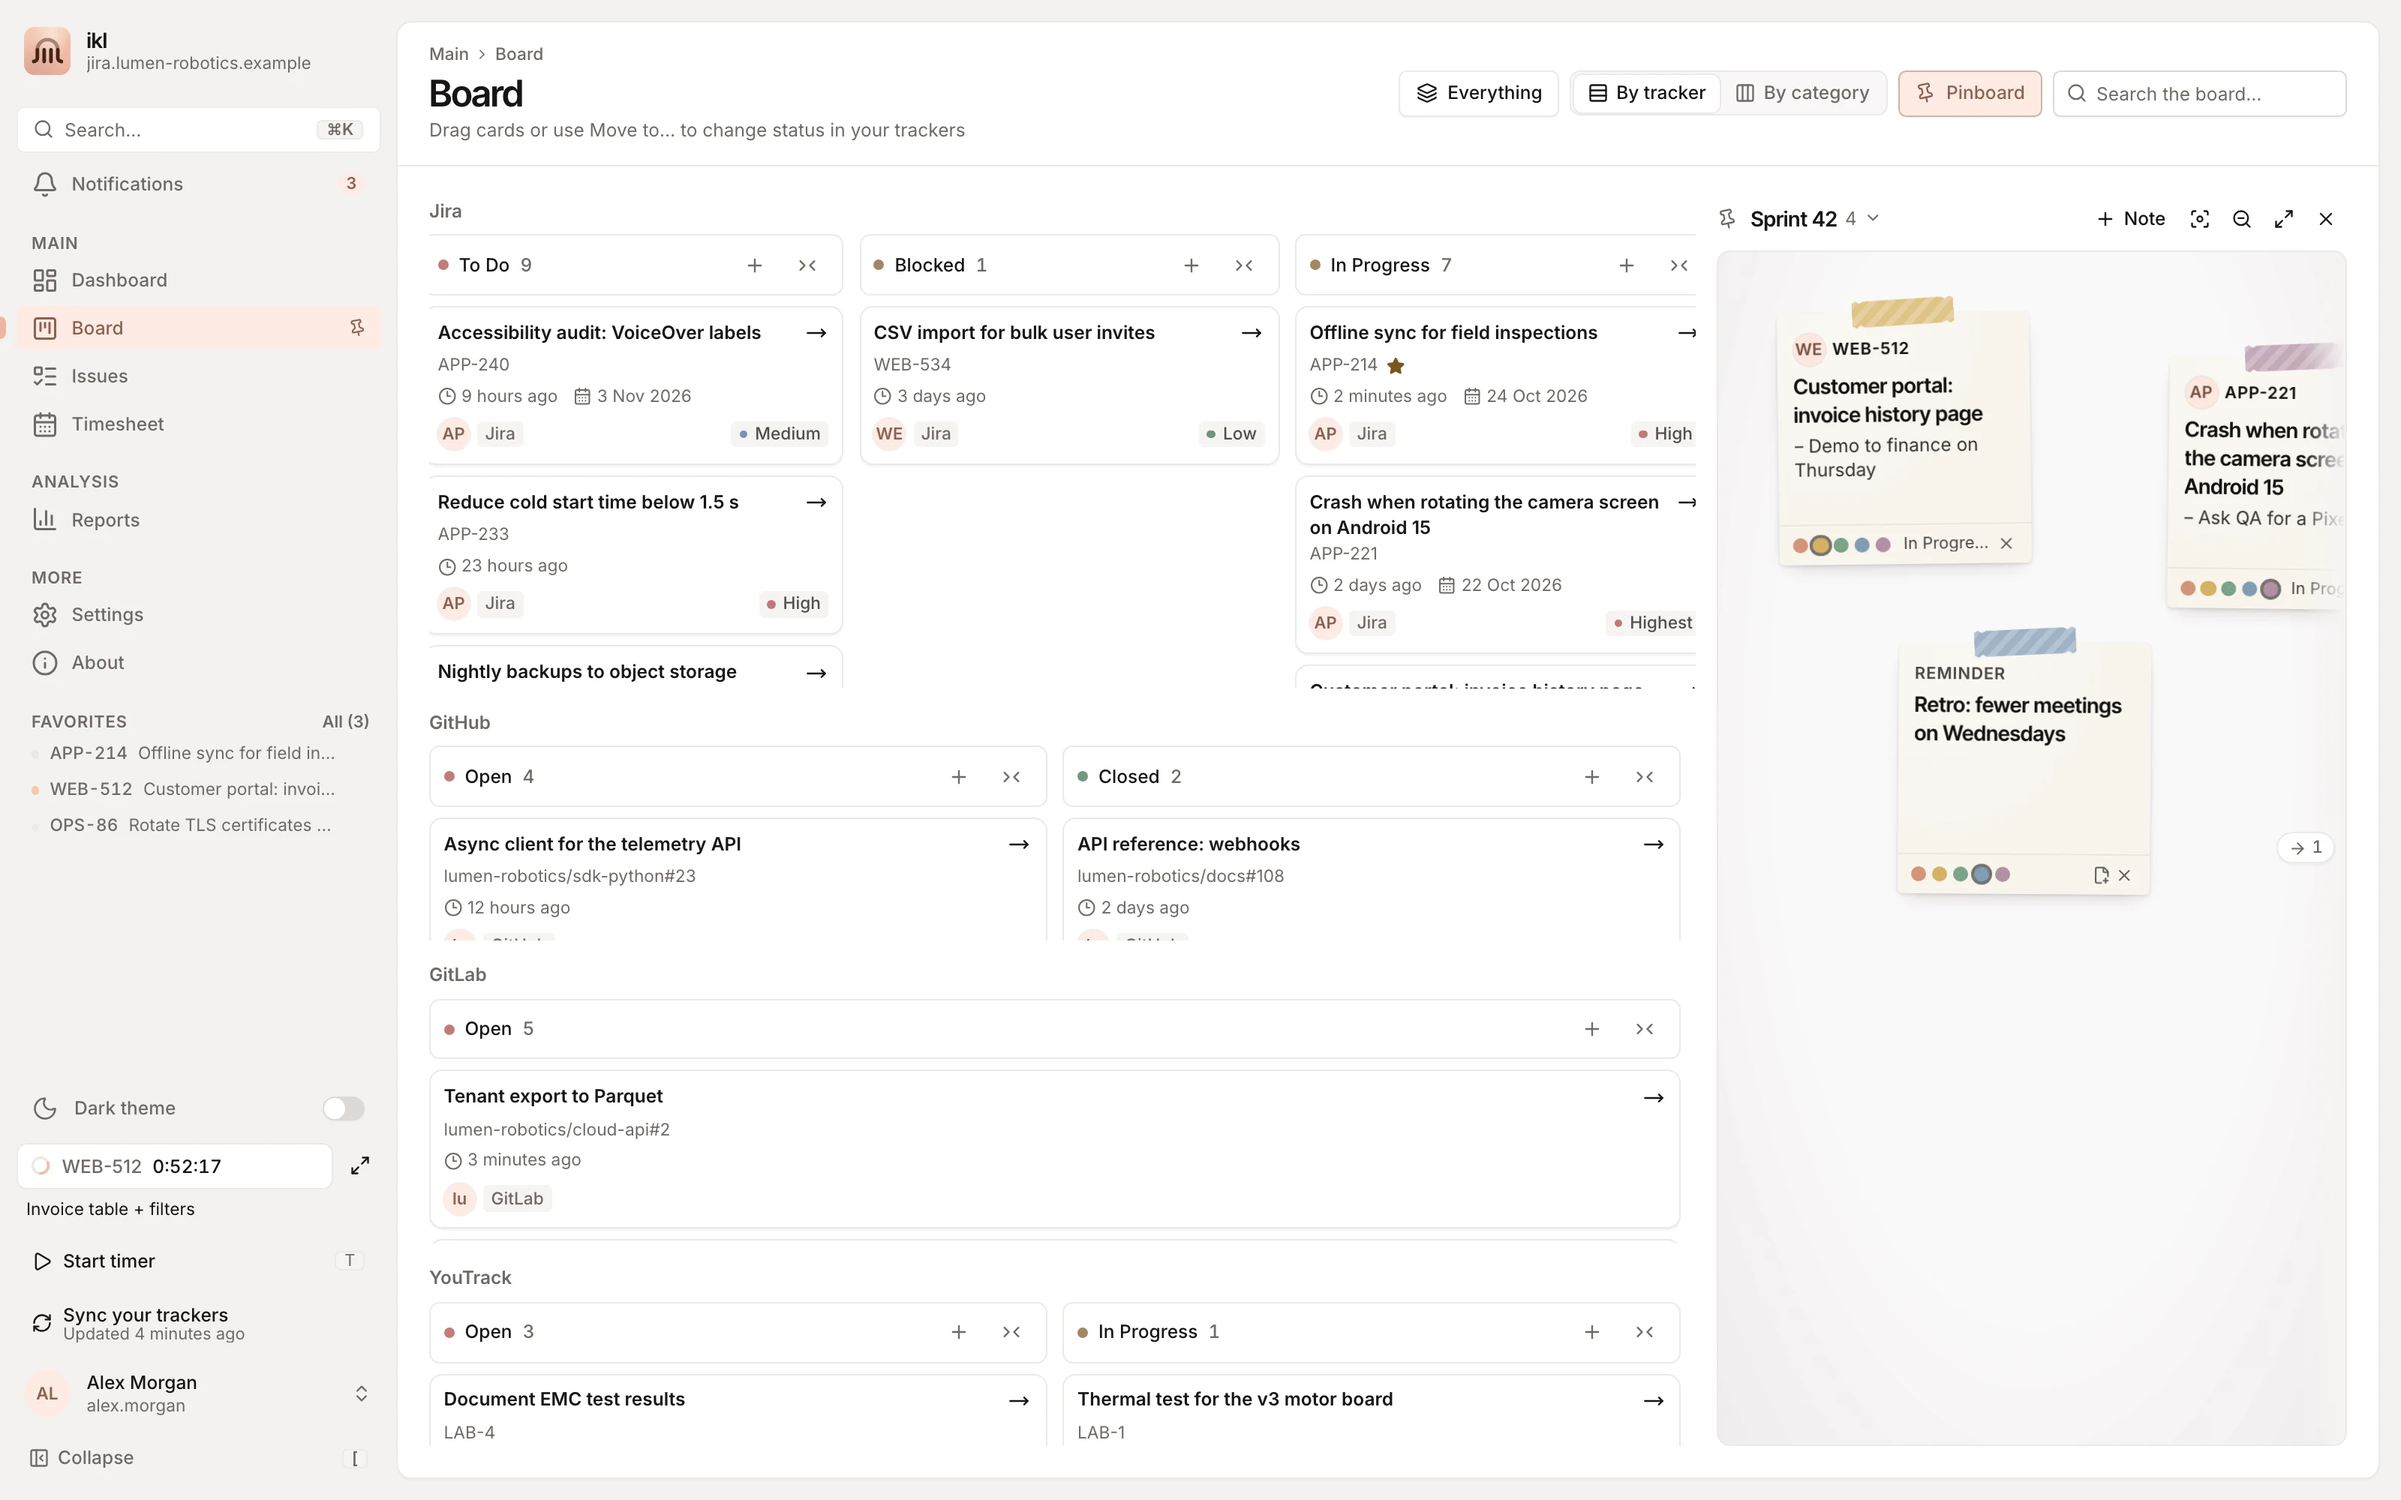
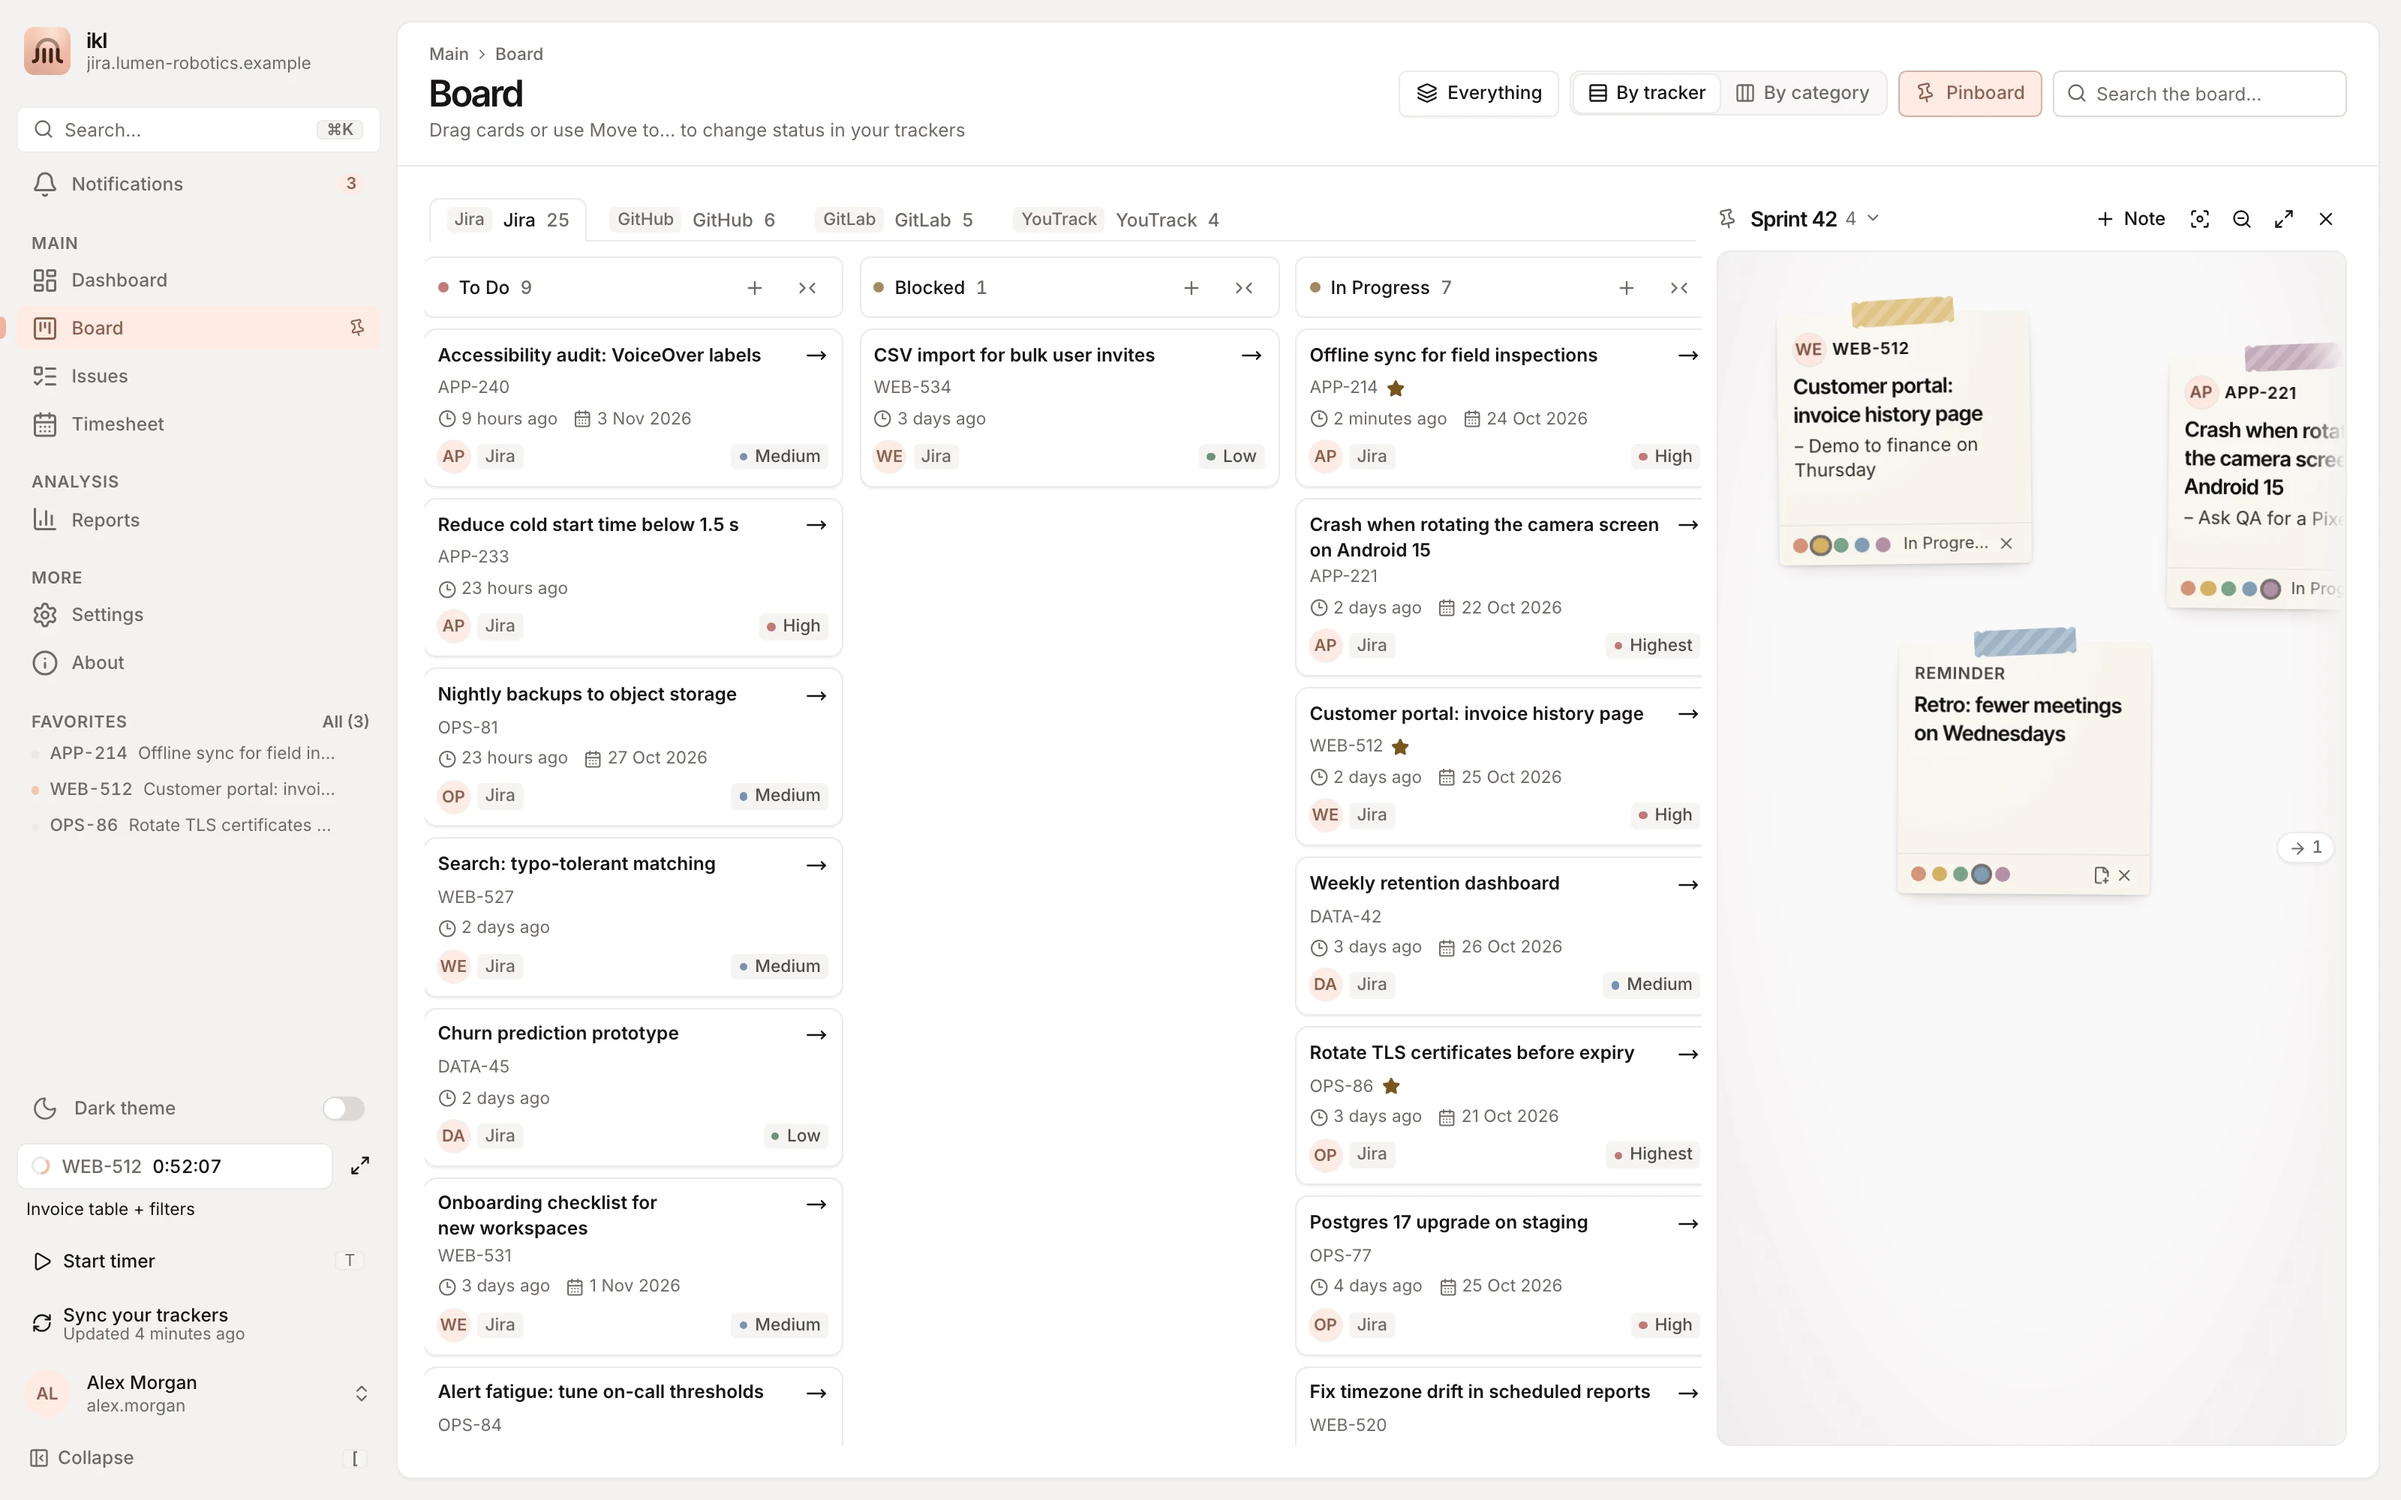
feat(board): tracker tabs, recent finished cards

diff --git a/src/pages/Board.tsx b/src/pages/Board.tsx
@@ -17,6 +17,8 @@ import { trpc } from "@/lib/trpc";
 import { byRelevance, visibleIssues, issueId } from "@/lib/issues";
 import { statusCategoryDotTone } from "@/lib/jira";
 import { cn } from "@/lib/utils";
+import { ConnectionBadge } from "@/components/app/ConnectionBadge";
+import { recentFinished } from "@/lib/boardDone";
 import { PageHeader } from "@/components/app/PageHeader";
 import { PanelSection } from "@/components/app/Panel";
 import { Input } from "@/components/ui/input";
@@ -143,7 +145,8 @@ export default function Board() {
   const showAllDone = view.expanded;
   const setShowAllDone = (f: (s: Set<string>) => Set<string>) => setView({ expanded: f(showAllDone) });
 
-  const { collapsed, toggle: toggleCollapsed } = useCollapsedColumns();
+  // Column ids carry their connection or category (s:6:Done, k:done): kept apart as "board:".
+  const { collapsed, toggle: toggleCollapsed } = useCollapsedColumns("board");
   const panel = usePinboardPanel();
   const mobileBoard = pinboardSheet.useValue();
   const boardId = usePinboardBoardId();
@@ -272,6 +275,38 @@ export default function Board() {
   }, [mode, customColumns, sourceIds, statuses, rows, connections]);
   const allColumns = lanes.flatMap(l => l.columns);
 
+  // "Lately" for finished columns: from when the board was opened.
+  const [openedAt] = useState(() => Date.now());
+
+  // The tracker shown when there are several (its tab), remembered per bucket on this device.
+  const laneKey = `ikl-board-lane:${active?.id ?? "all"}`;
+  const [laneTab, setLaneTab] = useState<number | null>(() => {
+    try {
+      const v = Number(localStorage.getItem(laneKey));
+      return Number.isInteger(v) && v > 0 ? v : null;
+    } catch {
+      return null;
+    }
+  });
+  const pickLane = (id: number | null) => {
+    setLaneTab(id);
+    try {
+      if (id !== null) localStorage.setItem(laneKey, String(id));
+    } catch {
+      // per-device convenience only
+    }
+  };
+  /** Arrows, Home and End move between the tabs (the tab pattern). */
+  const onTabKey = (e: React.KeyboardEvent) => {
+    const ids = lanes.map(l => l.connectionId);
+    const at = Math.max(0, ids.indexOf(lanes.find(l => l.connectionId === laneTab)?.connectionId ?? ids[0]));
+    const next = e.key === "ArrowRight" ? (at + 1) % ids.length : e.key === "ArrowLeft" ? (at - 1 + ids.length) % ids.length : e.key === "Home" ? 0 : e.key === "End" ? ids.length - 1 : -1;
+    if (next < 0) return;
+    e.preventDefault();
+    pickLane(ids[next]);
+    requestAnimationFrame(() => document.getElementById(`board-tab-${ids[next]}`)?.focus());
+  };
+
   // Dragging: only the columns its own tracker can take it to accept the drop.
   const [dragging, setDragging] = useState<Dragging | null>(null);
   const waysOf = async (card: Row): Promise<Way[]> => {
@@ -324,8 +359,10 @@ export default function Board() {
     const items = cardsOf(col);
     const isDone = col.category !== "" && isClosed(col.category);
     const expanded = showAllDone.has(col.id);
-    const hidden = isDone && !expanded ? Math.max(0, items.length - DONE_LIMIT) : 0;
-    const shown = hidden ? items.slice(0, DONE_LIMIT) : items;
+    // Finished columns: the last two weeks (at most DONE_LIMIT), the older ones on request.
+    const finished = isDone && !expanded ? recentFinished(items, openedAt, DONE_LIMIT) : null;
+    const hidden = finished?.older ?? 0;
+    const shown = finished ? finished.shown : items;
     // While a card is dragged: on where it can go, off (and dimmed) elsewhere; its own column stays as is.
     const own = dragging ? columnOf({ connectionId: dragging.card.connectionId, status: dragging.card.status, category: dragging.card.category }, [col]) === col.id : false;
     const allowed = targets.has(col.id);
@@ -436,7 +473,7 @@ export default function Board() {
               {t("pages.board.showAll", { hidden })}
             </Button>
           )}
-          {isDone && expanded && items.length > DONE_LIMIT && (
+          {isDone && expanded && recentFinished(items, openedAt, DONE_LIMIT).older > 0 && (
             <Button
               variant="ghost"
               size="sm"
@@ -475,17 +512,48 @@ export default function Board() {
     body = <EmptyState art="inbox" title={t("pages.board.noIssues")} message={t("pages.board.emptyMessage", { provider })} />;
   } else {
     const several = lanes.length > 1;
+    // Several trackers: one at a time behind its tab, the whole height for its columns.
+    const laneShown = several ? (lanes.find(l => l.connectionId === laneTab) ?? lanes[0]) : null;
+    const countOf = (id: number | null) => shownRows.filter(r => r.connectionId === id).length;
     body = (
-      <div className={cn("flex min-h-0 flex-1 flex-col gap-4", several && "overflow-y-auto")}>
-        {lanes.map(lane => (
+      <div className="flex min-h-0 flex-1 flex-col gap-3">
+        {several && (
+          <div role="tablist" aria-label={t("pages.board.lanesLabel")} className="flex shrink-0 flex-wrap items-end gap-1 border-b" onKeyDown={onTabKey}>
+            {lanes.map(lane => {
+              const on = lane === laneShown;
+              return (
+                <button
+                  key={lane.connectionId ?? "all"}
+                  type="button"
+                  role="tab"
+                  id={`board-tab-${lane.connectionId}`}
+                  aria-selected={on}
+                  aria-controls="board-lane"
+                  tabIndex={on ? 0 : -1}
+                  onClick={() => pickLane(lane.connectionId)}
+                  className={cn(
+                    "-mb-px flex items-center gap-2 rounded-t-lg border border-b-0 px-3 py-1.5 text-body-sm font-medium outline-none transition-colors focus-visible:ring-2 focus-visible:ring-ring/40",
+                    on ? "bg-card text-foreground" : "border-transparent text-muted-foreground hover:bg-accent hover:text-foreground"
+                  )}
+                >
+                  {/* Its tracker beside a name of its own ("Side projects"); never "Jira Jira". */}
+                  {lane.connectionId !== null && lane.label !== connections.find(c => c.id === lane.connectionId)?.name && <ConnectionBadge connectionId={lane.connectionId} />}
+                  <span className="truncate">{lane.label}</span>
+                  <span className="tabular text-muted-foreground">{countOf(lane.connectionId)}</span>
+                </button>
+              );
+            })}
+          </div>
+        )}
+        {(laneShown ? [laneShown] : lanes).map(lane => (
           <div
             key={lane.connectionId ?? "all"}
             data-lane={lane.connectionId ?? "all"}
-            role={several ? "group" : undefined}
+            id={several ? "board-lane" : undefined}
+            role={several ? "tabpanel" : undefined}
             aria-label={several ? lane.label : undefined}
-            className={cn("flex min-h-0 flex-col", !several && "flex-1")}
+            className="flex min-h-0 flex-1 flex-col"
           >
-            {several && <h2 className="mb-2 text-body-sm font-semibold text-muted-foreground">{lane.label}</h2>}
             <div
               data-scroll-key={`board-columns-${lane.connectionId ?? "all"}`}
               className="-mx-1 flex min-h-0 flex-1 snap-x snap-mandatory gap-3 overflow-x-auto px-1 [scrollbar-gutter:stable]"

diff --git a/src/lib/boardDone.test.ts b/src/lib/boardDone.test.ts
@@ -1,0 +1,20 @@
+import { describe, expect, it } from "vitest";
+import { recentFinished } from "./boardDone";
+
+const DAY = 86_400_000;
+const now = Date.UTC(2026, 9, 21, 12);
+const card = (id: number, daysAgo: number | null) => ({ id, relevantAt: daysAgo === null ? null : now - daysAgo * DAY });
+
+describe("a finished column", () => {
+  it("shows the last two weeks, newest first; older ones wait", () => {
+    const r = recentFinished([card(1, 30), card(2, 1), card(3, 13), card(4, null), card(5, 15)], now);
+    expect(r.shown.map(c => c.id)).toEqual([2, 3]);
+    expect(r.older).toBe(3);
+  });
+
+  it("never more than the cap, even of recent ones", () => {
+    const r = recentFinished(Array.from({ length: 30 }, (_, i) => card(i, i / 10)), now, 20);
+    expect(r.shown).toHaveLength(20);
+    expect(r.older).toBe(10);
+  });
+});

diff --git a/src/lib/boardDone.ts b/src/lib/boardDone.ts
@@ -1,0 +1,12 @@
+/**
+ * A finished column (done, cancelled) shows what was finished lately: the
+ * cards with activity in the last two weeks, at most `cap`, newest first.
+ * The rest wait behind "Show older".
+ */
+export const RECENT_DAYS = 14;
+
+export function recentFinished<T extends { relevantAt: number | null }>(items: T[], now: number, cap = 20): { shown: T[]; older: number } {
+  const since = now - RECENT_DAYS * 86_400_000;
+  const recent = items.filter(i => (i.relevantAt ?? 0) >= since).sort((a, b) => (b.relevantAt ?? 0) - (a.relevantAt ?? 0)).slice(0, cap);
+  return { shown: recent, older: items.length - recent.length };
+}

diff --git a/src/hooks/useCollapsedColumns.ts b/src/hooks/useCollapsedColumns.ts
@@ -5,8 +5,8 @@ import { t } from "@/i18n";
 
 /**
  * Collapsed columns, a user setting (DB) so they follow every device.
- * `scope` keeps boards apart in the shared list ("dashboard:" prefix); the
- * Board uses the bare status names, as it always did.
+ * `scope` keeps boards apart in the shared list ("board:", "dashboard:");
+ * values without one (bare status names, from before) are no longer read.
  */
 export function useCollapsedColumns(scope?: string) {
   const utils = trpc.useUtils();

diff --git a/contracts/i18n/it/pages.ts b/contracts/i18n/it/pages.ts
@@ -207,7 +207,8 @@ export const pages: Shape<typeof en> = {
     collapseTitle: "Comprimi colonna",
     noIssues: "Nessuna issue",
     emptyMessage: "Nessuna issue: premi Sincronizza {provider} nella barra laterale",
-    showAll: "Mostra tutte ({hidden} nascoste)",
+    showAll: "Mostra i più vecchi ({hidden})",
+    lanesLabel: "Tracker",
     showLess: "Mostra meno",
     title: "Board",
     description: "Trascina le card o usa Sposta in… per cambiare stato su {provider}",

diff --git a/contracts/i18n/en/pages.ts b/contracts/i18n/en/pages.ts
@@ -206,7 +206,8 @@ export const pages = {
     collapseTitle: "Collapse column",
     noIssues: "No issues",
     emptyMessage: "No issues: press Sync {provider} in the sidebar",
-    showAll: "Show all ({hidden} hidden)",
+    showAll: "Show older ({hidden})",
+    lanesLabel: "Trackers",
     showLess: "Show less",
     title: "Board",
     description: "Drag cards or use Move to… to change status in {provider}",
